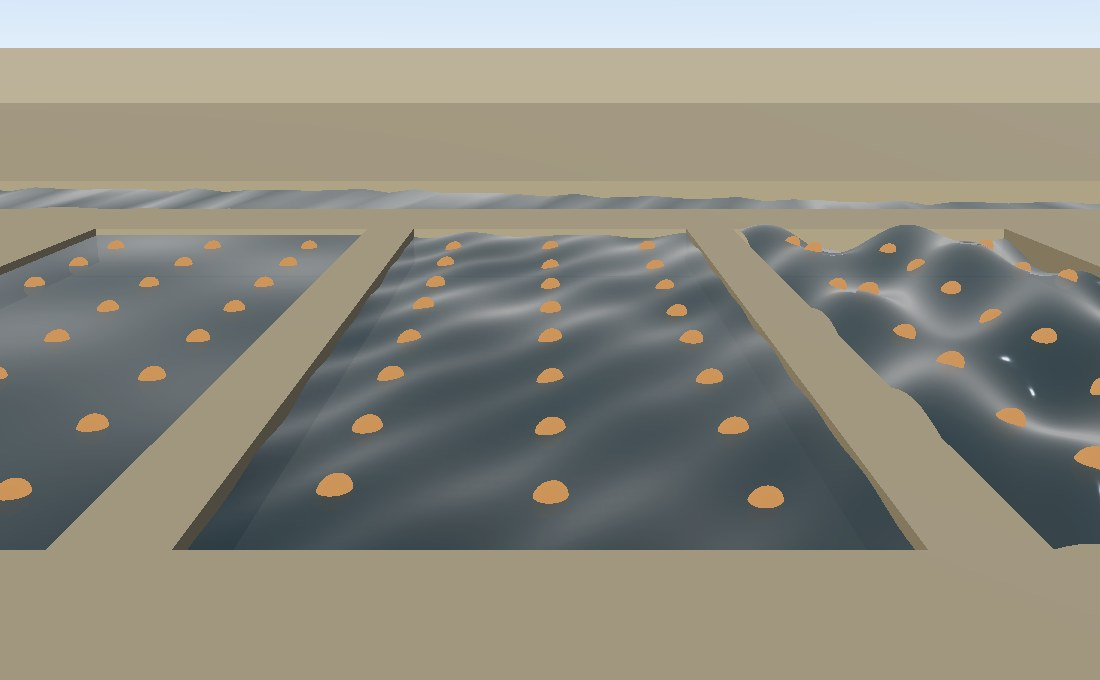
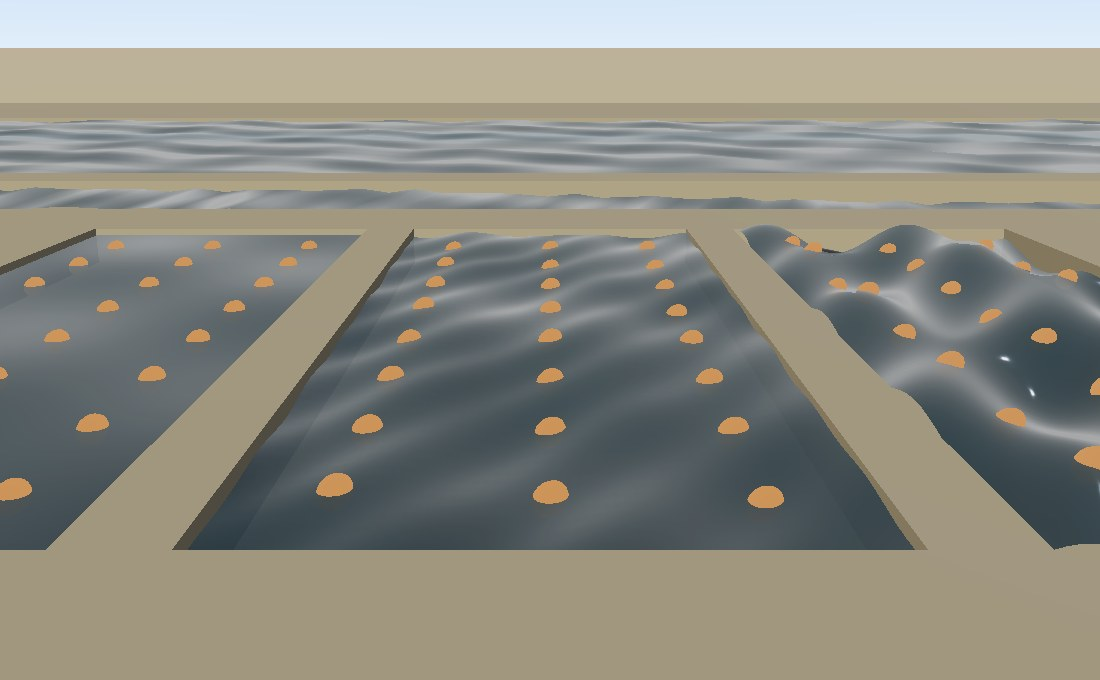
WATER Mesh density that carries the wave, and a demo that shows it
mesh_across takes a sheet's density from its wavelength, which is right,
at two samples per wave, which is the Nyquist limit -- enough to represent
a sine in principle, and in practice whether the vertices land on the
crests or on the zero crossings is down to where the sheet happens to
start. Measured against the field: over a 12 m sheet two samples per wave
keep 73% of the wave where four keep 89%; over 40 m, 84% against 96%. On
the large sheets the rule exists for the two agree, both being held at
MESH_LIMIT already, so four costs nothing where it matters and fixes the
small end.

MESH_FLOOR is the other end of the same argument. The fixed nine-across
this rule replaced was wrong on a lake and right on a pond, so a density
rule that returns fewer than nine on a sheet with swell in it would be a
regression dressed as a fix. Still water carries no swell and is left to
ask for as little as it likes.

The water demo grows a LAKE behind its river -- 180 m of open water, the
size at which this stops being a detail -- and `d` meshes it the old way
so the difference is on the screen rather than described. Both numbers
are measured against the wave field when they are printed:

  meshed from its wavelength: 33 vertices, 1.6 per wave, keeps 98%
  meshed the old way:          9 vertices, 0.4 per wave, keeps 47%

Nine across 180 m is a vertex every 22 m against a 9 m wave: under one
sample per wave, where a wave does not flatten but returns as a longer
one that was never in the water.

Changed region(s): [[0.0, 0.1544, 1.0, 0.3088]]

diff --git a/docs/water.html b/docs/water.html
@@ -203,8 +203,42 @@ rather than converting.</p>
     Every sheet is built with <code>on_gpu=True</code>, so a frame costs four
     <code>wave_time</code> writes and nothing is re-uploaded. Press
     <code>v</code> to put the camera under the middle pool and <code>h</code> to
-    print what the surface is doing.</figcaption>
+    print what the surface is doing. Behind the river is a
+    <code>LAKE</code>: 180&nbsp;m of open water, meshed by
+    <code>mesh_across</code> from its own wavelength.</figcaption>
 </figure>
+
+<h3>How finely a sheet is meshed</h3>
+<p>A sheet is meshed once across its whole footprint, so a fixed vertex count
+  cannot be right for both a pond and a lake: the lake samples its own ripple
+  every few tens of metres, the wave aliases away, and what is left is a flat
+  plate with a strange normal on it.
+  <code>mesh_across(side, style)</code> takes the density from the
+  <em>wavelength</em> instead, capped at <code>MESH_LIMIT</code> because a
+  sheet is one draw and that is what it costs &mdash; in the file of a baked
+  world as much as in the frame.</p>
+<p>Press <code>d</code> in the demo to mesh its lake the way a sheet used to be
+  and watch the swell go out of it. Both are measured against the wave field
+  itself, not asserted:</p>
+<pre>lake 180 m across, meshed from its wavelength: 33 vertices, 1.6 samples per wave, keeps 98% of its swell
+lake 180 m across, meshed the old way:          9 vertices, 0.4 samples per wave, keeps 47% of its swell</pre>
+<p>Nine vertices across 180&nbsp;m is a vertex every 22&nbsp;m against a
+  9&nbsp;m wave &mdash; under one sample per wave, and so under the Nyquist
+  limit, where a wave does not merely flatten but returns as a longer one that
+  was never in the water.</p>
+<p><code>MESH_PER_WAVE</code> is four. Two is the Nyquist limit itself: enough
+  to represent a sine in principle, and in practice whether the vertices land
+  on the crests or on the zero crossings is down to where the sheet happens to
+  start. Measured over a 12&nbsp;m sheet, two samples per wave keep 73% of the
+  wave and four keep 89%; over 40&nbsp;m, 84% against 96%. On the sheets where
+  it matters most the two agree, because both are already held at
+  <code>MESH_LIMIT</code>. <code>MESH_FLOOR</code> is the other end of it: a
+  sheet carrying any swell is never meshed coarser than the fixed count this
+  rule replaced, which was wrong on a lake and right on a pond.</p>
+<p>The fine ripple does not live in the mesh at all. It is
+  <code>waveRipple</code> in the fragment shader, composed as a tilt of
+  whatever normal the surface already has, so the glitter costs the same at any
+  density and the mesh only has to carry the swell.</p>
 
 <p class="technical">The demo runs with
 <code>OPENGLCONTEXT_SHADOWS=0</code>: a GPU-displaced sheet casts its shadow map

diff --git a/tests/water_demo.py b/tests/water_demo.py
@@ -26,6 +26,22 @@ Beyond the pools a `water_ribbon` sweeps a river along a bending course
 that loses height from end to end -- the thing a flat sheet at one `level`
 cannot do.
 
+Behind the river is a `LAKE`: 180 m of open water, which is where how
+finely a sheet is meshed stops being a detail. It is meshed by
+`mesh_across`, from its own wavelength. Press `d` to mesh it the way a
+sheet used to be, at nine vertices whatever its size, and the two are
+printed as they are measured against the wave field itself:
+
+    lake 180 m across, meshed from its wavelength: 33 vertices, 1.6 samples
+        per wave, keeps 98% of its swell
+    lake 180 m across, meshed the old way:          9 vertices, 0.4 samples
+        per wave, keeps 47% of its swell
+
+Nine vertices across 180 m is a vertex every 22 m against a 9 m wave --
+less than one sample per wave, under the Nyquist limit, where a wave does
+not merely flatten but comes back as a longer one that was never in the
+water.
+
 Every sheet is built with `on_gpu=True`: uploaded once, then moved by the
 four `wave_time` writes in `OnIdle`. Nothing is re-meshed and nothing is
 re-uploaded to make the water move.
@@ -60,8 +76,8 @@ from OpenGLContext.scenegraph.basenodes import (
 )
 from OpenGLContext.scenegraph.pbrmaterial import PBRMaterial
 from OpenGLContext.scenegraph.water import (
-    CHOPPY, FLOWING, STILL, Volume, Volumes, medium_fog, submerge,
-    water_ribbon, water_surface, wave_height,
+    CHOPPY, FLOWING, LAKE, STILL, Volume, Volumes, medium_fog, submerge,
+    mesh_across, water_ribbon, water_surface, wave_height,
 )
 from OpenGLContext.viewer.environment import sky_background
 
@@ -84,6 +100,18 @@ Z0, Z1, LEVEL, BED = -26.0, 6.0, 0.0, -1.2
 #: axis is meshed every half metre and CHOPPY's 7 m crests get fourteen vertices
 #: apiece -- well clear of the point where a sheet is too coarse for its wave.
 RESOLUTION = 65
+
+#: The lake beyond the river: 180 m of open water, which is the size at which
+#: how finely a sheet is meshed stops being a detail. Its wave is 9 m long, so
+#: the nine-vertices-across a sheet used to get puts one vertex every 22 m --
+#: less than one sample per wave, which is under the Nyquist limit, and a wave
+#: sampled under Nyquist does not merely flatten: it comes back as a different,
+#: longer wave that was never in the water.
+LAKE_X0, LAKE_X1, LAKE_Z0, LAKE_Z1 = -90.0, 90.0, -104.0, -48.0
+
+#: What a sheet used to be meshed at, whatever its size. Kept so `d` can put it
+#: back and the difference can be seen rather than described.
+FIXED_RESOLUTION = 9
 
 #: How far down the volumes go. A body that has gone through the bed is still
 #: in the water as far as the view is concerned.
@@ -113,7 +141,11 @@ ACROSS, ALONG, FLOAT_RADIUS = 3, 8, 0.35
 SHORE = [
     (-90.0, -20.0, Z0, Z1), (-8.0, -6.0, Z0, Z1),
     (6.0, 8.0, Z0, Z1), (20.0, 90.0, Z0, Z1),
-    (-90.0, 90.0, -32.0, Z0), (-90.0, 90.0, -140.0, -44.0),
+    (-90.0, 90.0, -32.0, Z0),
+    # Beyond the river, with the lake's footprint left out of it.
+    (-90.0, 90.0, -48.0, -44.0),
+    (-90.0, LAKE_X0, LAKE_Z0, LAKE_Z1), (LAKE_X1, 90.0, LAKE_Z0, LAKE_Z1),
+    (-90.0, 90.0, -140.0, LAKE_Z0),
     (-90.0, 90.0, Z1, 140.0),
 ]
 
@@ -190,6 +222,15 @@ class TestContext(BaseContext):
             print('%-8s amplitude %.2f m  wavelength %.1f m  speed %.1f m/s'
                   % (label, style.amplitude, style.wavelength, style.speed))
 
+        # The lake, meshed from its own wavelength. Its Shape is kept so `d`
+        # can swap the geometry for one meshed the old fixed way.
+        self._lakeShape = Shape(geometry=None, appearance=None)
+        self._lakeFine = True
+        children.append(_slab(LAKE_X0, LAKE_X1, LAKE_Z0, LAKE_Z1, BED,
+                              0.3, BOTTOM))
+        children.append(self._lakeShape)
+        self._buildLake()
+
         ribbon = water_ribbon(_river_course(), 9.0, style=FLOWING, on_gpu=True)
         self.meshes.append(ribbon)
         children.append(Shape(geometry=ribbon, appearance=Appearance(
@@ -211,6 +252,7 @@ class TestContext(BaseContext):
         #: The last medium printed, so an unchanged frame stays quiet.
         self._medium = None
         self._under = False
+        self.addEventHandler('keypress', name='d', function=self.OnDensity)
         self.addEventHandler('keypress', name='v', function=self.OnDive)
         self.addEventHandler('keypress', name='h', function=self.OnHeights)
         print(__doc__)
@@ -229,6 +271,44 @@ class TestContext(BaseContext):
                 self.floats.append((style, float(x), float(z), transform))
                 nodes.append(transform)
         return nodes
+
+    def _buildLake(self):
+        """Mesh the lake, and say what that meshing keeps of its wave.
+
+        The carried fraction is measured rather than claimed: the lake's own
+        wave field is sampled finely enough to be the answer, then again at the
+        density the sheet is actually meshed at.
+        """
+        side = LAKE_X1 - LAKE_X0
+        across = (mesh_across(side, LAKE) if self._lakeFine
+                  else FIXED_RESOLUTION)
+        sheet = water_surface(LAKE_X0, LAKE_X1, LAKE_Z0, LAKE_Z1, level=LEVEL,
+                              resolution=across, style=LAKE, on_gpu=True)
+        # Swap it in under the Shape already in the scene, and take the sheet
+        # it replaces out of the list OnIdle writes wave_time to.
+        old = self._lakeShape.geometry
+        self.meshes = [m for m in self.meshes if m is not old]
+        self._lakeShape.geometry = sheet
+        self._lakeShape.appearance = Appearance(material=sheet.material)
+        self.meshes.append(sheet)
+        self.triggerRedraw(1)
+
+        spacing = side / max(across - 1, 1)
+        fine = np.linspace(LAKE_X0, LAKE_X1, 400)
+        true = wave_height(LAKE, *np.meshgrid(fine, fine), 0.0)
+        coarse = np.linspace(LAKE_X0, LAKE_X1, across)
+        got = wave_height(LAKE, *np.meshgrid(coarse, coarse), 0.0)
+        span = float(true.max() - true.min())
+        print('lake %.0f m across, meshed %-20s %2d vertices, %.1f samples per '
+              'wave, keeps %.0f%% of its swell'
+              % (side, 'from its wavelength:' if self._lakeFine else 'the old way:',
+                 across, LAKE.wavelength / spacing,
+                 100.0 * float(got.max() - got.min()) / max(span, 1e-9)))
+
+    def OnDensity(self, event=None):
+        """Mesh the lake the other way, so the difference is on the screen."""
+        self._lakeFine = not self._lakeFine
+        self._buildLake()
 
     def OnDive(self, event):
         """Put the camera into the middle pool, or back on the bank."""

diff --git a/tests/unit/test_water_mesh_density.py b/tests/unit/test_water_mesh_density.py
@@ -1,0 +1,79 @@
+"""A sheet is meshed finely enough to carry its own swell
+(:func:`OpenGLContext.scenegraph.water.surface.mesh_across`).
+
+The density comes from the wavelength rather than from a count chosen once,
+because a fixed count cannot be right for both a pond and a lake the size of a
+valley: the lake samples its own ripple every few hundred metres, the wave
+aliases away, and what is left is a flat plate.
+
+How many samples a wavelength gets decides how much of the wave survives.  Two
+is the Nyquist limit -- enough to represent a sine in principle, and in practice
+whether the mesh lands on the crests or on the zero crossings is down to where
+the sheet happens to start.  These cases measure what actually survives, against
+the field sampled finely enough to be the answer.
+"""
+import numpy as np
+import pytest
+
+from OpenGLContext.scenegraph.water.surface import (
+    CHOPPY,
+    FLOWING,
+    MESH_LIMIT,
+    STILL,
+    mesh_across,
+    wave_height,
+)
+
+#: Least of the true wave height a mesh must carry, as a fraction.  Short of
+#: this the swell the mesh is there to hold is visibly flattened.
+CARRIED = 0.85
+
+
+def _span(style, side, across, when=2.0):
+    """The height range a mesh of ``across`` vertices actually captures."""
+    line = np.linspace(-side / 2.0, side / 2.0, across)
+    x, z = np.meshgrid(line, line)
+    height = wave_height(style, x, z, when)
+    return float(height.max() - height.min())
+
+
+def _carried(style, side):
+    """What fraction of the true span the chosen mesh keeps."""
+    true = _span(style, side, 600)
+    if true <= 0.0:
+        return 1.0
+    return _span(style, side, mesh_across(side, style)) / true
+
+
+class TestTheMeshCarriesTheSwell:
+    @pytest.mark.parametrize('style', [FLOWING, CHOPPY])
+    @pytest.mark.parametrize('side', [12.0, 40.0, 120.0, 400.0])
+    def test_enough_of_the_wave_survives(self, style, side):
+        kept = _carried(style, side)
+        assert kept >= CARRIED, (
+            '%s over %g m keeps only %.0f%% of its wave at %d vertices across'
+            % (style.name, side, 100 * kept, mesh_across(side, style)))
+
+    def test_a_small_sheet_is_not_meshed_coarser_than_the_old_default(self):
+        """The nine-across default was not wrong everywhere -- only on big sheets.
+
+        A pool a few metres across was already carried by it, so a density
+        rule that returns fewer vertices there is a regression dressed as a
+        fix.
+        """
+        for side in (8.0, 12.0, 20.0):
+            assert mesh_across(side, CHOPPY) >= 9, (
+                '%g m sheet meshed at %d across' % (side, mesh_across(side, CHOPPY)))
+
+
+class TestTheBudgetHolds:
+    def test_a_huge_sheet_stops_at_the_limit(self):
+        assert mesh_across(100000.0, CHOPPY) == MESH_LIMIT
+
+    def test_still_water_needs_no_swell_carried(self):
+        """Still water has no displacement, so any density carries all of it."""
+        assert _carried(STILL, 400.0) == 1.0
+
+    def test_it_never_returns_a_degenerate_mesh(self):
+        for side in (0.0, 0.01, 1.0):
+            assert mesh_across(side, CHOPPY) >= 2

diff --git a/OpenGLContext/scenegraph/water/surface.py b/OpenGLContext/scenegraph/water/surface.py
@@ -46,7 +46,7 @@ from OpenGLContext.scenegraph.pbrmaterial import PBRMaterial
 from OpenGLContext.scenegraph.pbrmesh import PBRMesh
 
 __all__ = ['WATER_ALBEDO', 'WATER_ROUGHNESS', 'WATER_TRANSPARENCY', 'WATER_IOR',
-           'LAKE', 'MESH_LIMIT', 'MESH_PER_WAVE', 'mesh_across',
+           'LAKE', 'MESH_FLOOR', 'MESH_LIMIT', 'MESH_PER_WAVE', 'mesh_across',
            'RIPPLE', 'RIPPLE_SCALE', 'water_material', 'water_surface',
            'WaterStyle', 'STILL', 'FLOWING', 'CHOPPY', 'wave_height',
            'wave_normal', 'water_ribbon', 'water_glints', 'bounds']
@@ -130,10 +130,21 @@ LAKE = WaterStyle(name='lake', amplitude=0.16, wavelength=9.0, speed=0.8,
 #: so it is a budget rather than a target.
 MESH_LIMIT = 33
 
-#: How many samples a wavelength gets. Two carries the *swell*, which is all the
-#: mesh has to hold: the fine ripple that makes water read as water lives in the
-#: fragment shader (``waveRipple``), where it is the same at any mesh density.
-MESH_PER_WAVE = 2.0
+#: The fewest vertices across a sheet that carries any swell at all, matching
+#: the fixed count this rule replaced. A pond was never the problem.
+MESH_FLOOR = 9
+
+#: How many samples a wavelength gets. The mesh only has to hold the *swell* --
+#: the fine ripple that makes water read as water lives in the fragment shader
+#: (``waveRipple``), where it is the same at any mesh density.
+#:
+#: Four rather than two. Two is the Nyquist limit: enough to represent a sine in
+#: principle, and in practice whether the vertices land on the crests or on the
+#: zero crossings is down to where the sheet happens to start. Measured against
+#: the field sampled finely, two carries 73% of the wave over a 12 m sheet and
+#: 84% over 40 m; four carries 89% and 96%. It costs nothing on the sheets that
+#: matter most, which are already held at :data:`MESH_LIMIT`.
+MESH_PER_WAVE = 4.0
 
 
 def mesh_across(side: float, style: "Optional[WaterStyle]" = None,
@@ -153,7 +164,13 @@ def mesh_across(side: float, style: "Optional[WaterStyle]" = None,
     style = style if style is not None else STILL
     wave = max(float(style.wavelength), 1e-3)
     wanted = float(side) / wave * MESH_PER_WAVE + 1.0
-    return int(min(max(wanted, 2.0), float(limit)))
+    # Never below MESH_FLOOR on a sheet with a swell in it: the fixed count
+    # this replaced was wrong on a lake and right on a pond, and a rule that
+    # returns fewer vertices than it did on the small sheets would be a
+    # regression dressed as a fix. Still water has no displacement to carry,
+    # so it is left to ask for as little as it likes.
+    floor = MESH_FLOOR if float(style.amplitude) else 2.0
+    return int(min(max(wanted, floor), float(limit)))
 
 #: The directions the wave trains run, as turns from the style's own heading,
 #: and each one's share of the amplitude and of the wavelength. Three, crossing:
